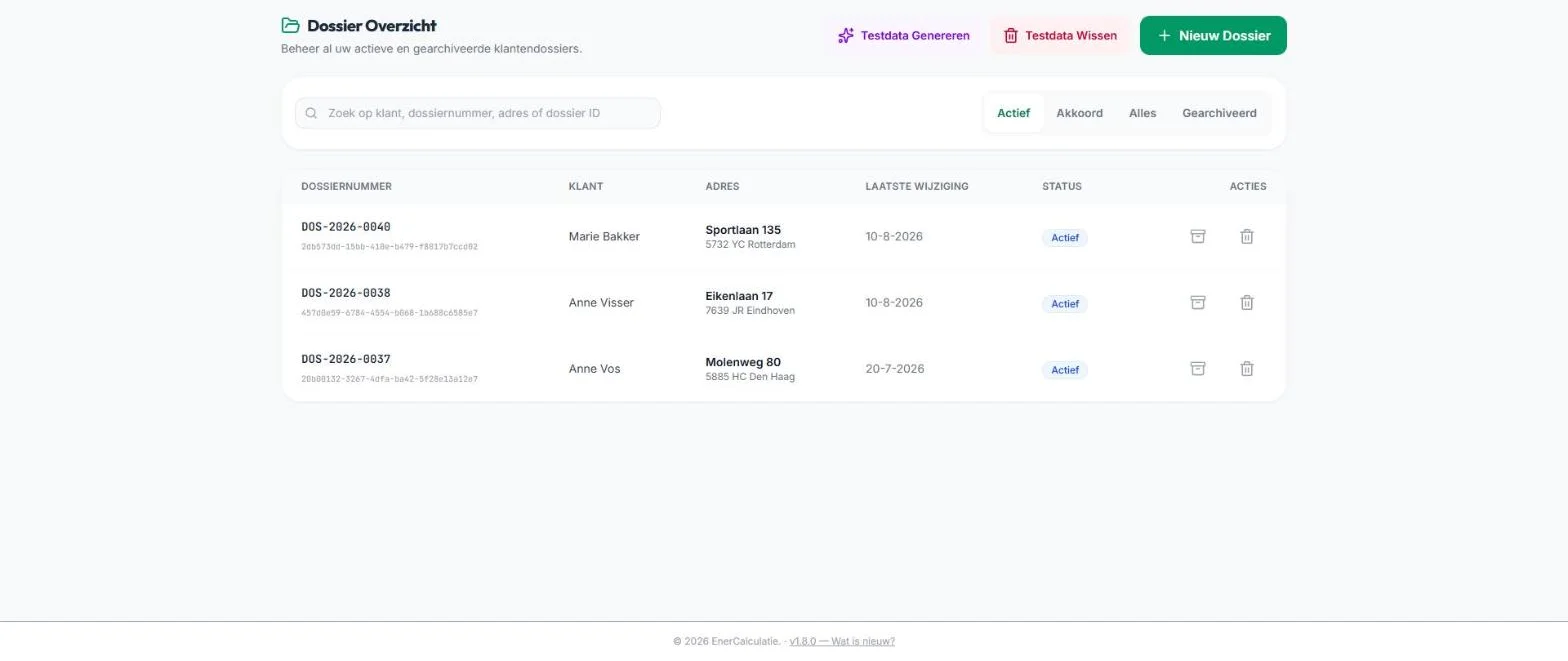
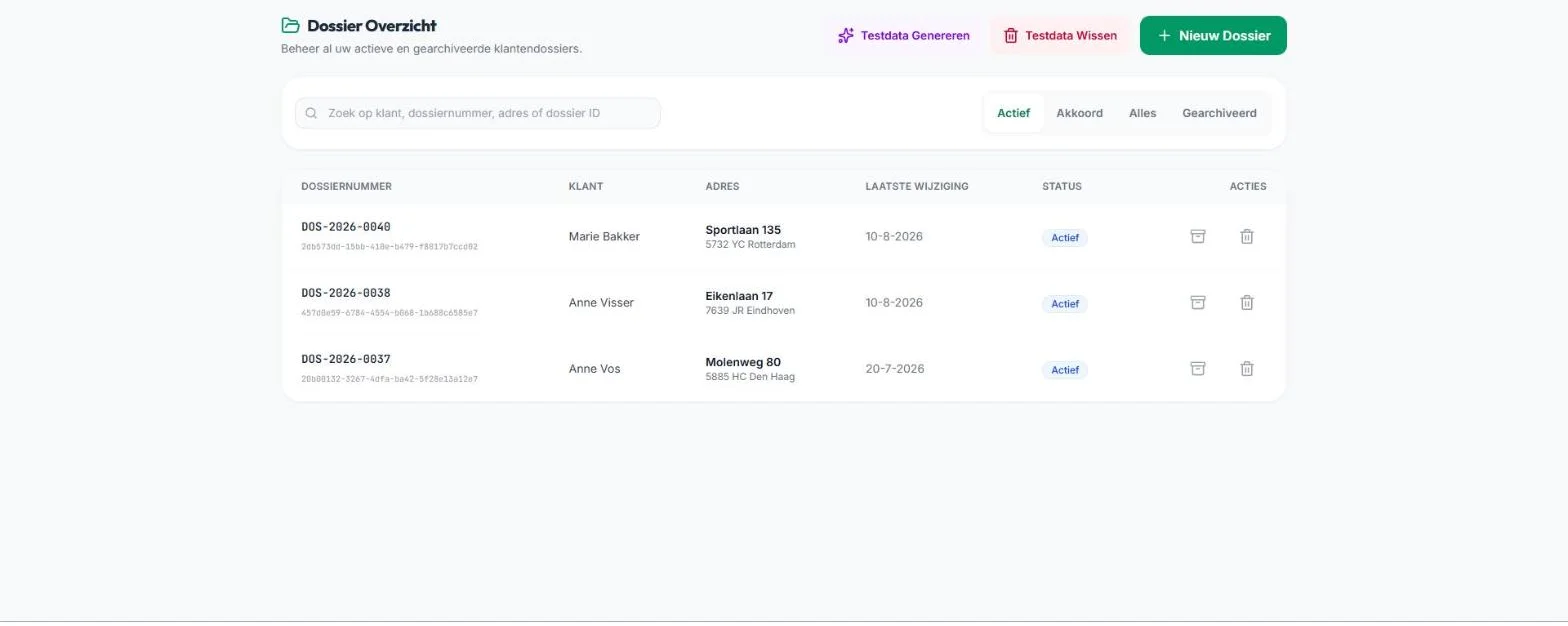
fix(demo): schermen te klein/onduidelijk — aspect-ratio matcht nu screenshots
Demo-box stond vast op de oude 1230/810-ratio; de nieuwe screenshots
(1568x626, volledige viewportbreedte) werden daardoor door object-contain
fors teruggeschaald — content oogde te klein en onduidelijk (gemeld door
gebruiker). Aspect-ratio aangepast naar 1568/626 zodat de screenshots
edge-to-edge vullen. dossier-overzicht.webp opnieuw gecropt naar dezelfde
hoogte voor consistentie.

diff --git a/src/components/AppDemoVideo.tsx b/src/components/AppDemoVideo.tsx
@@ -253,8 +253,11 @@ export function AppDemoVideo() {
                 <div className="w-16" />
               </div>
 
-              {/* Screenshot area — aspect ratio matches screenshots (~1230×810) */}
-              <div className="relative bg-white overflow-hidden" style={{ aspectRatio: '1230/810' }}>
+              {/* Screenshot area — aspect ratio matches de screenshots (1568×626, ververst 2026-08-10).
+                  Bewust breder/lager dan de oude 1230×810-ratio: bij een smallere ratio werd de
+                  content fors uitgerekt/verkleind door object-contain (te klein/onduidelijk in de
+                  demo), omdat deze screenshots op volledige viewportbreedte zijn vastgelegd. */}
+              <div className="relative bg-white overflow-hidden" style={{ aspectRatio: '1568/626' }}>
                 <AnimatePresence mode="wait">
                   <motion.img
                     key={activeStep.screenshot}
